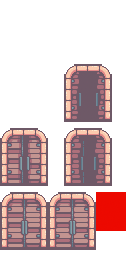
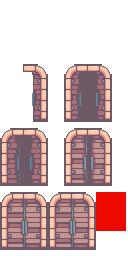
Add files via upload

Changed region(s): [[0.5625, 0.5312, 0.8125, 0.7188], [0.0625, 0.5312, 0.3125, 0.7188], [0.1562, 0.25, 0.375, 0.5]]

diff --git a/scripts/objRefTable.js b/scripts/objRefTable.js
@@ -25,9 +25,9 @@ self.C3_GetObjectRefTable = function () {
 		C3.Plugins.Sprite.Acts.SetAnim,
 		C3.Plugins.System.Acts.Wait,
 		C3.Behaviors.solid.Acts.SetEnabled,
+		C3.Plugins.Sprite.Acts.SetVisible,
 		C3.Plugins.Tilemap.Acts.SetVisible,
 		C3.Plugins.Text.Acts.SetVisible,
-		C3.Plugins.Sprite.Acts.SetVisible,
 		C3.Behaviors.MoveTo.Acts.MoveToPosition,
 		C3.Behaviors.Platform.Acts.SetIgnoreInput,
 		C3.Plugins.System.Cnds.OnLayoutStart,
@@ -63,7 +63,8 @@ self.C3_JsPropNameTable = [
 	{Mosaico3: 0},
 	{porta: 0},
 	{brilho: 0},
-	{fundoTexto: 0}
+	{fundoTexto: 0},
+	{porta2: 0}
 ];
 
 self.InstanceType = {
@@ -85,5 +86,6 @@ self.InstanceType = {
 	Mosaico3: class extends self.ITilemapInstance {},
 	porta: class extends self.ISpriteInstance {},
 	brilho: class extends self.ISpriteInstance {},
-	fundoTexto: class extends self.ITilemapInstance {}
+	fundoTexto: class extends self.ITilemapInstance {},
+	porta2: class extends self.ISpriteInstance {}
 }